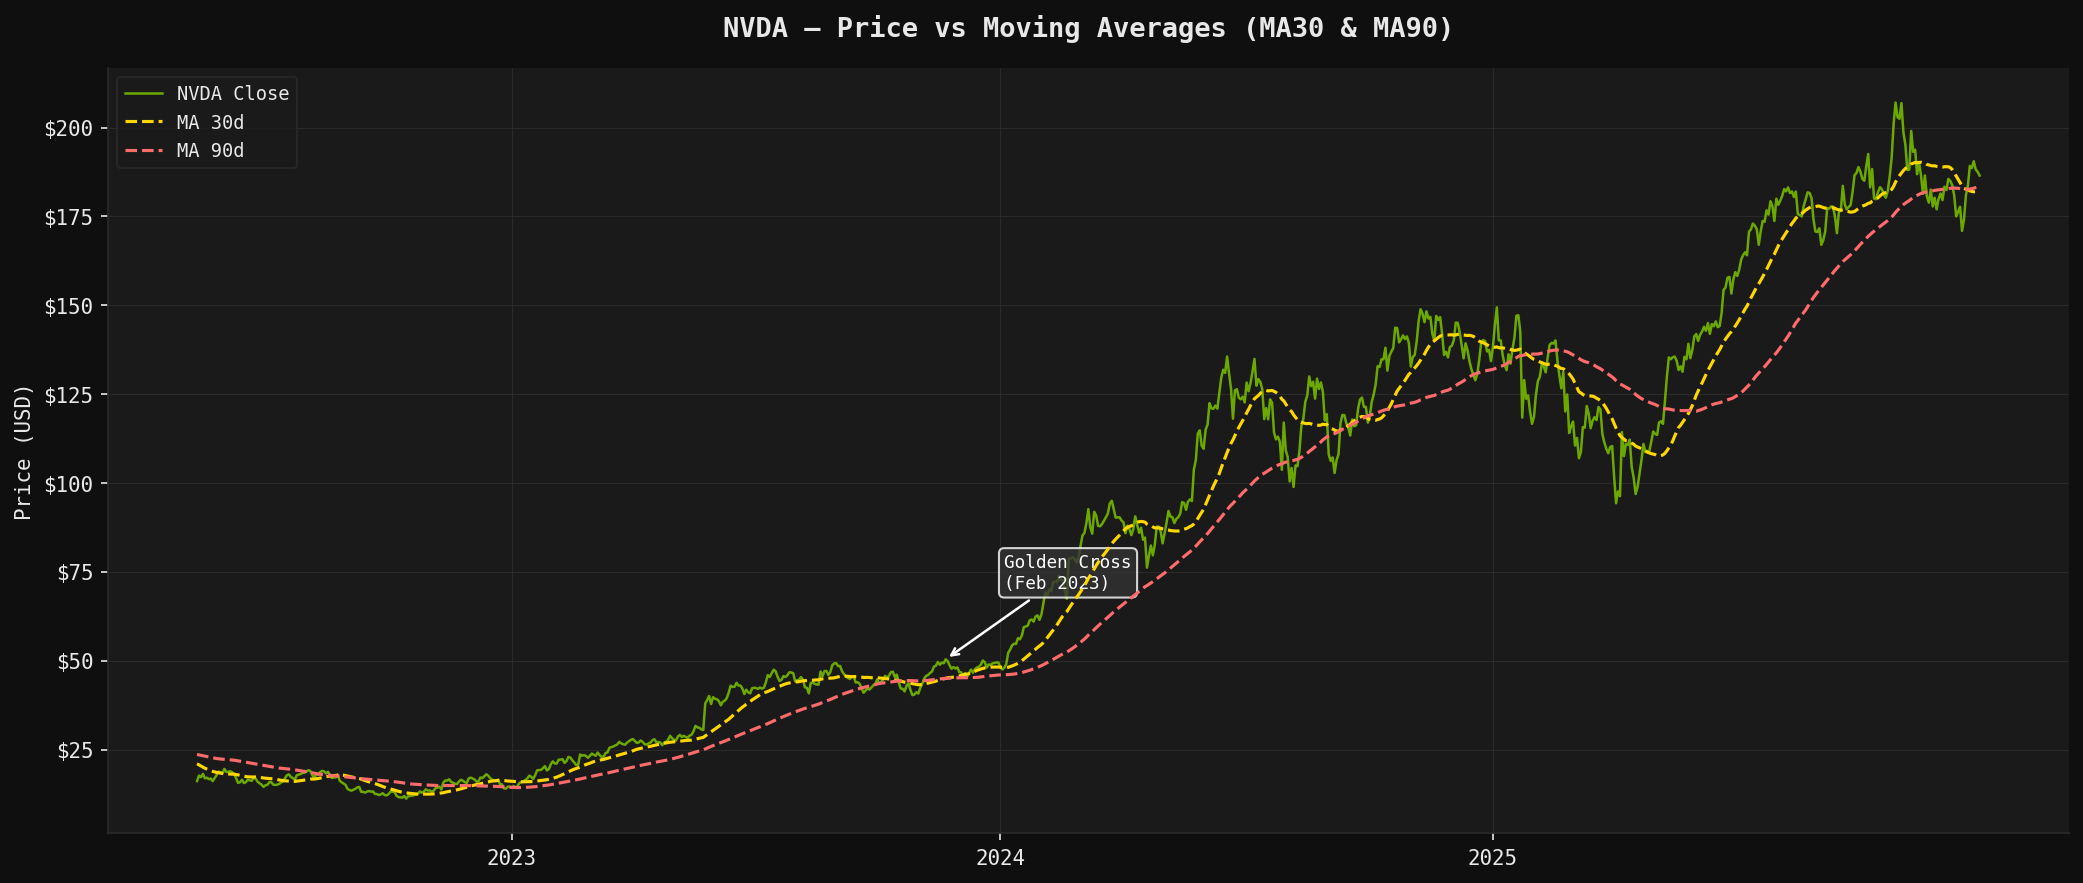
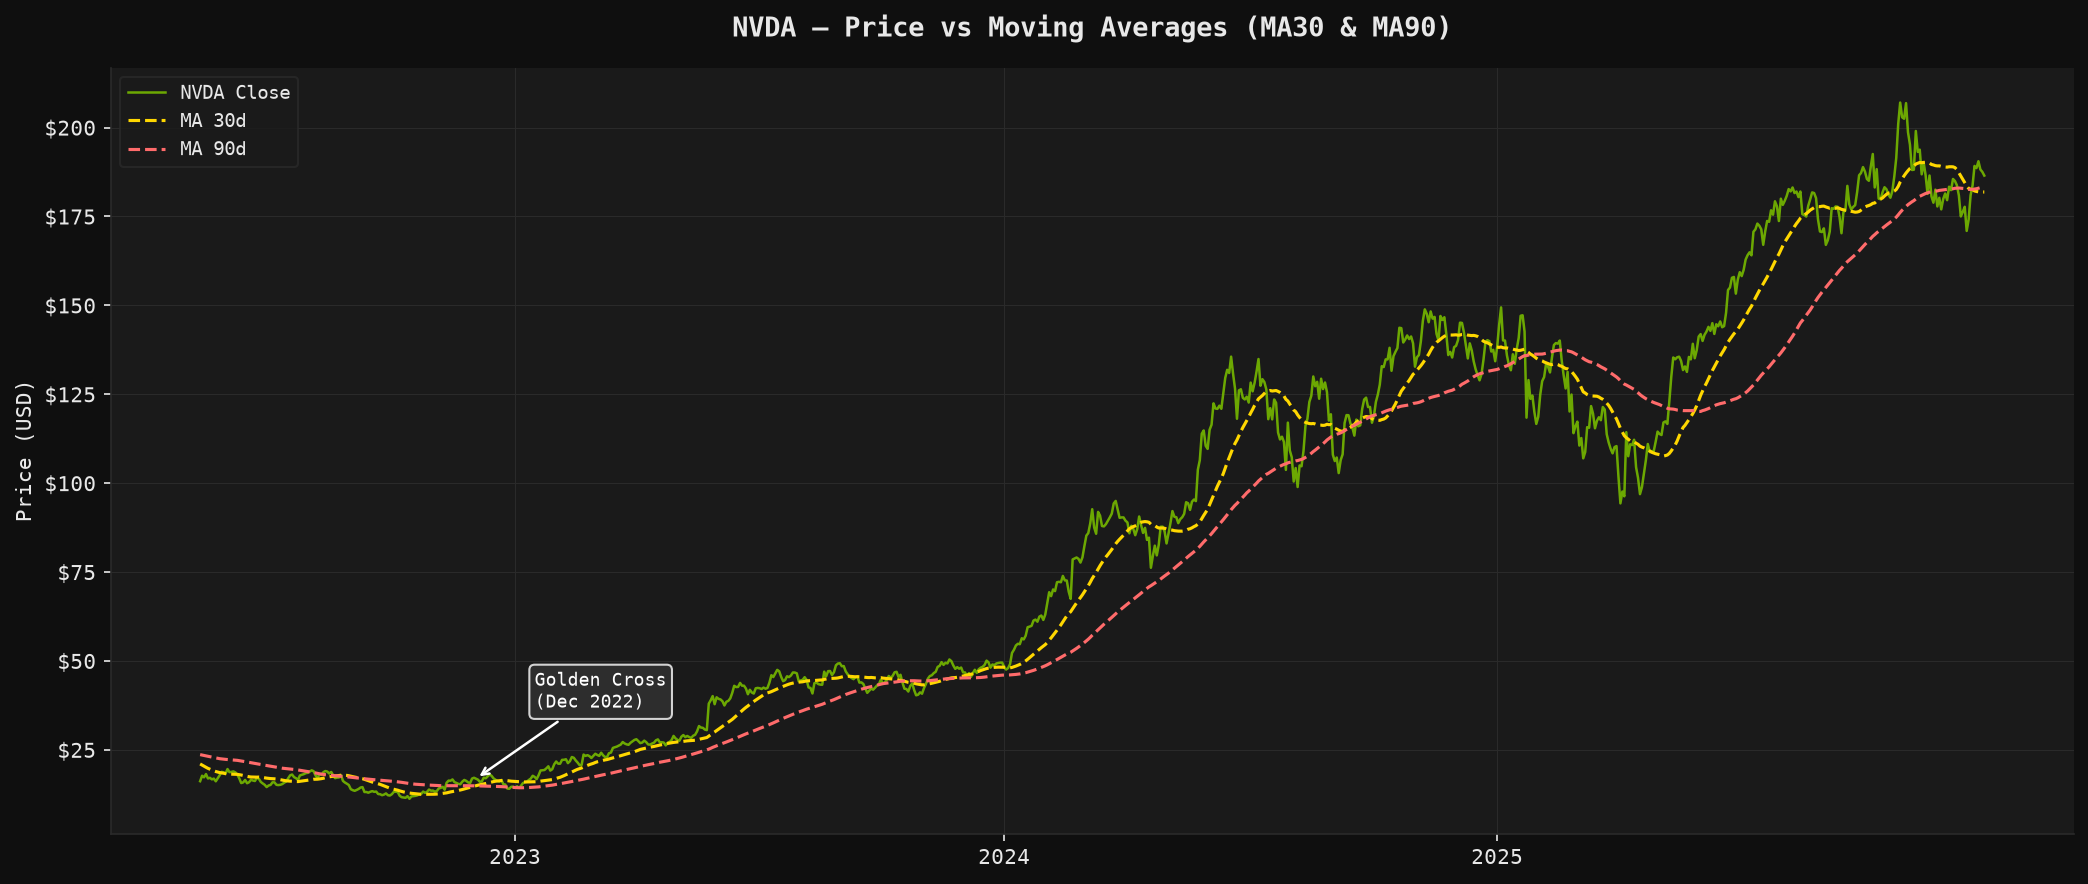
Fix annual returns and golden cross date to match the data

diff --git a/data/visualization.py b/data/visualization.py
@@ -22,6 +22,7 @@ import matplotlib
 import matplotlib.pyplot as plt
 import matplotlib.ticker as mticker
 from collections import defaultdict
+from datetime import datetime
 
 matplotlib.use('Agg')
 
@@ -153,18 +154,25 @@ ax.plot(x_idx, closes_plot, color=COLORS['NVDA'], linewidth=1.2, alpha=0.9, labe
 ax.plot(x_idx, ma30_plot,   color='#FFD700',      linewidth=1.5, linestyle='--', label='MA 30d', zorder=4)
 ax.plot(x_idx, ma90_plot,   color='#FF6B6B',      linewidth=1.5, linestyle='--', label='MA 90d', zorder=4)
 
-# Anotar golden cross
-for i in range(1, len(dates_plot)):
-    if (ma30_plot[i] and ma90_plot[i] and ma30_plot[i-1] and ma90_plot[i-1]
-            and ma30_plot[i] > ma90_plot[i] and ma30_plot[i-1] <= ma90_plot[i-1]
-            and dates_plot[i] >= '2023-01-01'):
-        ax.annotate('Golden Cross\n(Feb 2023)', xy=(i, closes_plot[i]),
-                    xytext=(i + 30, closes_plot[i] + 20),
-                    arrowprops=dict(arrowstyle='->', color='white', lw=1.2),
-                    fontsize=8.5, color='white',
-                    bbox=dict(boxstyle='round,pad=0.3', facecolor='#333',
-                              edgecolor='white', alpha=0.8))
-        break
+# Anotar golden cross: el cruce MA30 > MA90 que inicia la racha alcista más larga
+bullish = [bool(a and b and a > b) for a, b in zip(ma30_plot, ma90_plot)]
+best_i, best_len = None, 0
+for i in range(1, len(bullish)):
+    if bullish[i] and not bullish[i - 1]:
+        j = i
+        while j < len(bullish) and bullish[j]:
+            j += 1
+        if j - i > best_len:
+            best_i, best_len = i, j - i
+if best_i is not None:
+    i = best_i
+    cross_label = datetime.strptime(dates_plot[i], '%Y-%m-%d').strftime('%b %Y')
+    ax.annotate(f'Golden Cross\n({cross_label})', xy=(i, closes_plot[i]),
+                xytext=(i + 30, closes_plot[i] + 20),
+                arrowprops=dict(arrowstyle='->', color='white', lw=1.2),
+                fontsize=8.5, color='white',
+                bbox=dict(boxstyle='round,pad=0.3', facecolor='#333',
+                          edgecolor='white', alpha=0.8))
 
 ax.set_xticks(tick_positions)
 ax.set_xticklabels(tick_labels, fontsize=10)

diff --git a/README.md b/README.md
@@ -47,11 +47,12 @@ ai-chip-market-analysis/
 # 1. Install dependencies
 pip install matplotlib
 
-# 2. Create the database
+# 2. Create the database (run from the data/ folder)
+cd data
 python create_db.py
 
 # 3. Generate visualizations
-python visualizations.py
+python visualization.py
 
 # 4. Open stock_analysis.sql in VS Code
 #    Connect SQLTools → SQLite → stocks.db
@@ -72,8 +73,11 @@ The real story begins in 2023, when NVDA exploded +246% driven by the generative
 |------|-----------|--------|----------|--------|
 | 2022 | TSM | -42% | AMD | -57% |
 | 2023 | **NVDA** | **+246%** | TSM | +40% |
-| 2024 | **NVDA** | **+179%** | INTC | -39% |
-| 2025 | TSM | +16% | NVDA | +35%* |
+| 2024 | **NVDA** | **+179%** | INTC | -58% |
+| 2025 | INTC | +82% | NVDA | +35% |
+
+In 2025 the ranking flipped: INTC rebounded +82% from a very low base, while NVDA,
+after two record years, posted the smallest gain of the group.
 
 ---
 
@@ -109,9 +113,11 @@ a casualty of losing market share to AMD and ARM in both CPUs and AI accelerator
 ### 4. 30-Day & 90-Day Moving Averages — NVDA
 > *AVG() OVER · ROWS BETWEEN · trend signal logic*
 
-The MA30 crossed above the MA90 in **February 2023** — a classic "golden cross"
-that preceded NVDA's historic rally. The signal stayed bullish for the rest of
-2023 and through 2024.
+After a brief false signal in August 2022 (it lasted two weeks), the MA30 crossed
+above the MA90 on **December 2, 2022** — a classic "golden cross" that preceded
+NVDA's historic rally. The signal stayed bullish for most of 2023
+and 2024, with two short bearish spells (October–November 2023 and mid-September to
+mid-October 2024).
 
 ```sql
 -- Signal logic embedded in the query:
@@ -133,8 +139,9 @@ END AS signal
 | INTC | 2025-Q3 | +47% | 2024-Q2 | -30% |
 | TSM | 2025-Q2 | +34% | 2022-Q2 | -20% |
 
-Q2 2022 was the worst quarter for every ticker — peak inflation fears and Fed
-rate hike expectations hit the sector simultaneously.
+Q2 2022 was the worst quarter for NVDA, AMD and TSM — peak inflation fears and Fed
+rate hike expectations hit the sector simultaneously. INTC's worst quarter came
+later, in Q2 2024 (-30%).
 
 ---
 
@@ -184,9 +191,10 @@ in the red (-31%), reflecting its structural decline in market share.
 
 ### NVDA Price vs Moving Averages (MA30 & MA90)
 
-The **Golden Cross** in February 2023 — when the 30-day MA crossed above the 90-day MA —
-signaled the start of NVDA's historic rally. The bullish signal held through all of 2023
-and 2024, making it one of the most consequential trend signals in the dataset.
+The **Golden Cross** on December 2, 2022 — when the 30-day MA crossed above the 90-day MA —
+signaled the start of NVDA's historic rally. The bullish signal held for most of 2023
+and 2024, with only two short bearish interruptions, making it one of the most
+consequential trend signals in the dataset.
 
 ![NVDA Moving Averages](images/chart3_nvda_moving_avg.png)
 
